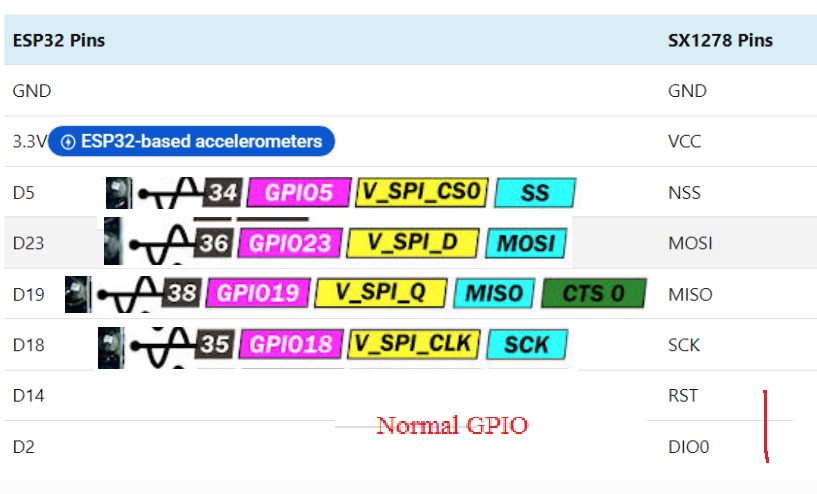
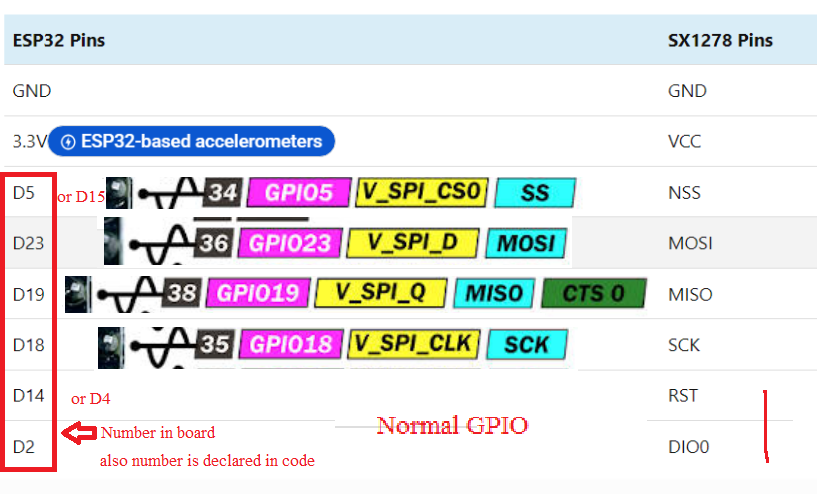
Update temp node 1

Changed region(s): [[0.0, 0.334, 0.3978, 0.9717]]

diff --git a/software/program/Node1_Master_ESP32/src/ReciveLora.cpp b/software/program/Node1_Master_ESP32/src/ReciveLora.cpp
@@ -1,0 +1,88 @@
+#include "ReciveLora.h"
+
+uint32_t calcCRC32(const void *data, size_t length) {
+    const uint8_t *bytes = (const uint8_t*)data;
+    uint32_t crc = 0xFFFFFFFF;   // initial value
+
+    for (size_t i = 0; i < length; i++) {
+        crc ^= bytes[i];
+        for (uint8_t j = 0; j < 8; j++) {
+            if (crc & 1)
+                crc = (crc >> 1) ^ 0xEDB88320;  // polynomial
+            else
+                crc >>= 1;
+        }
+    }
+
+    return ~crc;  // final XOR
+}
+
+void deserializeSensorData(SensorData &d, const uint8_t *buffer) {
+  int idx = 0;
+
+  memcpy(&d.id, &buffer[idx], sizeof(d.id)); idx += sizeof(d.id);
+  memcpy(&d.crc, &buffer[idx], sizeof(d.crc)); idx += sizeof(d.crc);
+  memcpy(&d.accX, &buffer[idx], sizeof(d.accX)); idx += sizeof(d.accX);
+  memcpy(&d.accY, &buffer[idx], sizeof(d.accY)); idx += sizeof(d.accY);
+  memcpy(&d.accZ, &buffer[idx], sizeof(d.accZ)); idx += sizeof(d.accZ);
+  memcpy(&d.gyroX, &buffer[idx], sizeof(d.gyroX)); idx += sizeof(d.gyroX);
+  memcpy(&d.gyroY, &buffer[idx], sizeof(d.gyroY)); idx += sizeof(d.gyroY);
+  memcpy(&d.gyroZ, &buffer[idx], sizeof(d.gyroZ)); idx += sizeof(d.gyroZ);
+  memcpy(&d.temperature, &buffer[idx], sizeof(d.temperature)); idx += sizeof(d.temperature);
+}
+
+void printSensorData_RECIEVE(const SensorData &d)
+{
+    Serial.println("==========RECIEVE DONE AND START WAIT FOR THE NEXT==========");
+    Serial.print("ID: "); Serial.println(d.id);
+    Serial.print("CRC: 0x"); Serial.println(d.crc, HEX);
+
+    Serial.print("Acc: ");
+    Serial.print(d.accX); Serial.print(", ");
+    Serial.print(d.accY); Serial.print(", ");
+    Serial.println(d.accZ);
+
+    Serial.print("Gyro: ");
+    Serial.print(d.gyroX); Serial.print(", ");
+    Serial.print(d.gyroY); Serial.print(", ");
+    Serial.println(d.gyroZ);
+
+    Serial.print("Temp: "); Serial.println(d.temperature, 2);
+}
+void InitLora(void){
+    Serial.println("LoRa Receiver");
+    LoRa.setPins(ss, rst, dio0);
+    if (!LoRa.begin(433E6)) {
+        Serial.println("Starting LoRa failed!");
+        Serial.println("Check connect before run the program!");
+        while (1);
+    }
+}
+
+void RecieveData(void)
+{
+    // try to parse packet
+    int packetSize = LoRa.parsePacket();
+    if (packetSize == sizeof(SensorData)) {
+        uint8_t buffer[64];
+        int len = 0;
+        // Đọc dữ liệu vào buffer
+        while (LoRa.available()) {
+        buffer[len++] = (uint8_t)LoRa.read();
+        }
+
+        SensorData received;
+        deserializeSensorData(received, buffer);
+
+        // in ra kết quả
+        printSensorData_RECIEVE(received);
+
+        // Bây giờ có thể check CRC
+        uint32_t calc = calcCRC32(&received, sizeof(SensorData) - sizeof(received.crc));
+        if (calc == received.crc) {
+        Serial.println("✅ CRC OK");
+        } else {
+        Serial.println("❌ CRC ERROR");
+        }
+    }
+}

diff --git a/software/program/Node1_Master_ESP32/include/ReciveLora.h b/software/program/Node1_Master_ESP32/include/ReciveLora.h
@@ -1,0 +1,23 @@
+#ifndef _RECIEVE_LORA_H
+#define _RECIEVE_LORA_H
+
+#include "main.h"
+#include <SPI.h>
+#include <LoRa.h>
+#include "SensorData.h"
+
+#define ss 15
+#define rst 14
+#define dio0 2
+
+void InitLora(void);
+
+void RecieveData(void);
+
+uint32_t calcCRC32(const void *data, size_t length);
+
+void printSensorData_RECIEVE(const SensorData &d);
+
+void deserializeSensorData(SensorData &d, const uint8_t *buffer);
+
+#endif

diff --git a/software/program/Node1_Master_ESP32/include/SensorData.h b/software/program/Node1_Master_ESP32/include/SensorData.h
@@ -1,0 +1,14 @@
+#ifndef _SENSOR_DATA_H
+#define _SENSOR_DATA_H
+
+#include <Arduino.h>
+
+struct __attribute__((packed)) SensorData {
+  uint32_t id; 
+  uint32_t crc;
+  float accX, accY, accZ;
+  float gyroX, gyroY, gyroZ;
+  float temperature;
+};
+
+#endif